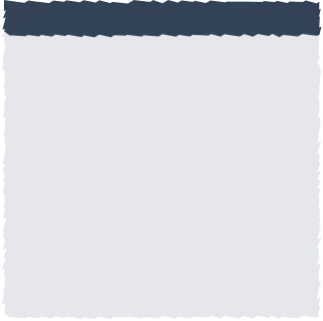
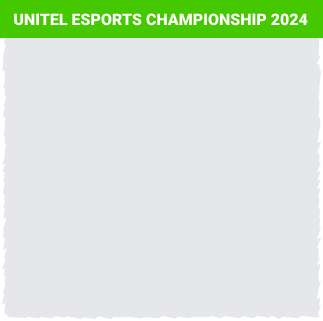
changes

Changed region(s): [[0.0, 0.0, 1.0, 0.1246]]

diff --git a/src/themes/fennec/top-bar/team/name/name.css b/src/themes/fennec/top-bar/team/name/name.css
@@ -5,14 +5,17 @@
 
 .name {
   height: var(--top-bar-row-height);
+  background-color: white;
 }
 
 .name.--ct {
-  color: var(--counter-terrorists-fill);
+  /* color: var(--counter-terrorists-fill); */
+  color: #333333;
 }
 
 .name.--t {
-  color: var(--terrorists-fill);
+  /* color: var(--terrorists-fill); */
+  color: #333333;
 }
 
 img.logo {
@@ -25,9 +28,11 @@ img.logo {
 
 img.logo.--left {
   padding-right: var(--top-bar-team-logo-horizontal-spacing);
+  color: var(--counter-terrorists-fill);
 }
 
 img.logo.--right {
   order: 1;
   padding-left: var(--top-bar-team-logo-horizontal-spacing);
+  color: var(--terrorists-fill);
 }

diff --git a/src/themes/fennec/top-bar/top-bar.html b/src/themes/fennec/top-bar/top-bar.html
@@ -1,9 +1,9 @@
 <div class="top-bar">
-  <img
+  <!-- <img
     style="position: absolute; z-index: -1; width: 100%"
     src="/hud/img/backgrounds/topbackground.webp"
     alt=""
-  />
+  /> -->
   <SeriesName />
   <Team :team="$teams[0]" position="left" />
   <center />

diff --git a/src/themes/fennec/top-bar/center/center.css b/src/themes/fennec/top-bar/center/center.css
@@ -9,6 +9,7 @@
     "match-point-rounds match-point-rounds match-point-rounds"
     ". . .";
   padding-top: 10px;
+  background-color: #333333;
 }
 
 .center.--is-multiple-map-series {

diff --git a/src/themes/fennec/top-bar/top-bar.css b/src/themes/fennec/top-bar/top-bar.css
@@ -10,7 +10,6 @@
     "series-name series-name series-name"
     "team-left center team-right";
   align-items: start;
-
   filter: var(--filter-drop-shadow);
   text-align: center;
 }
